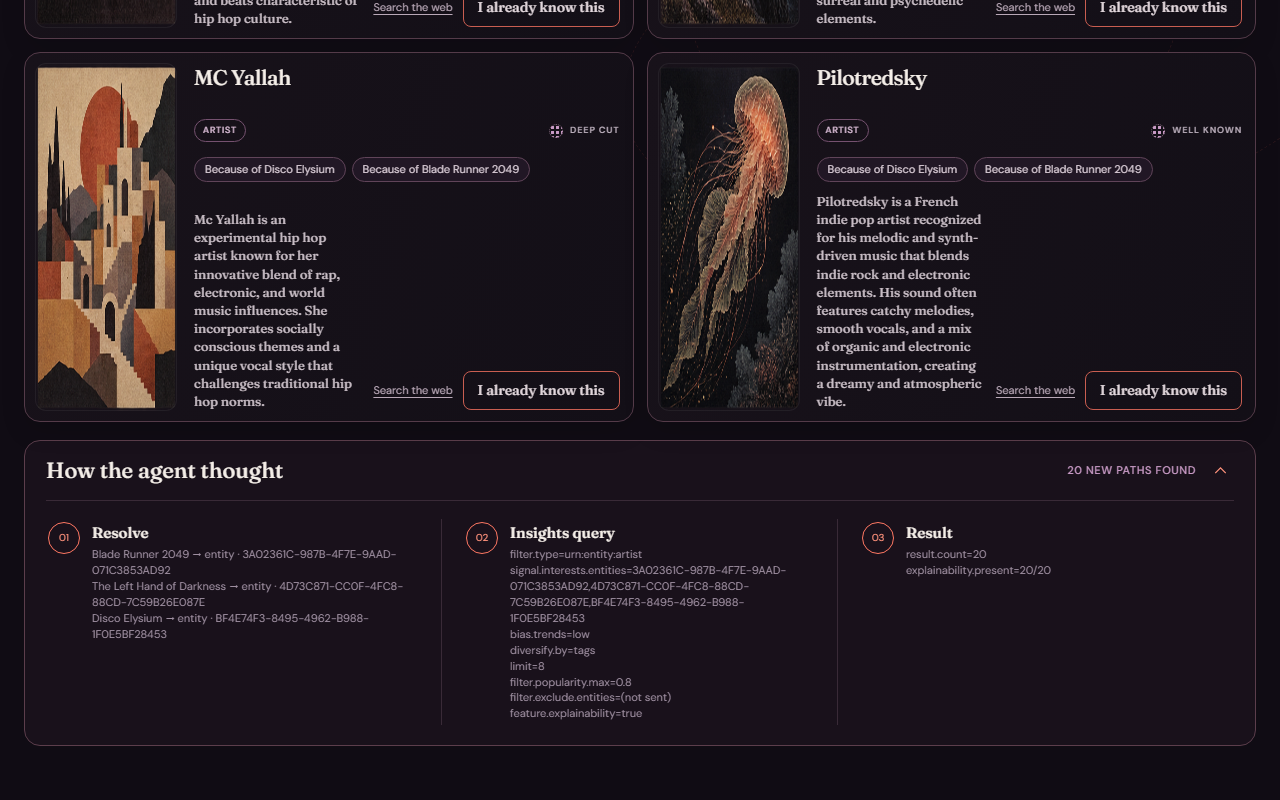
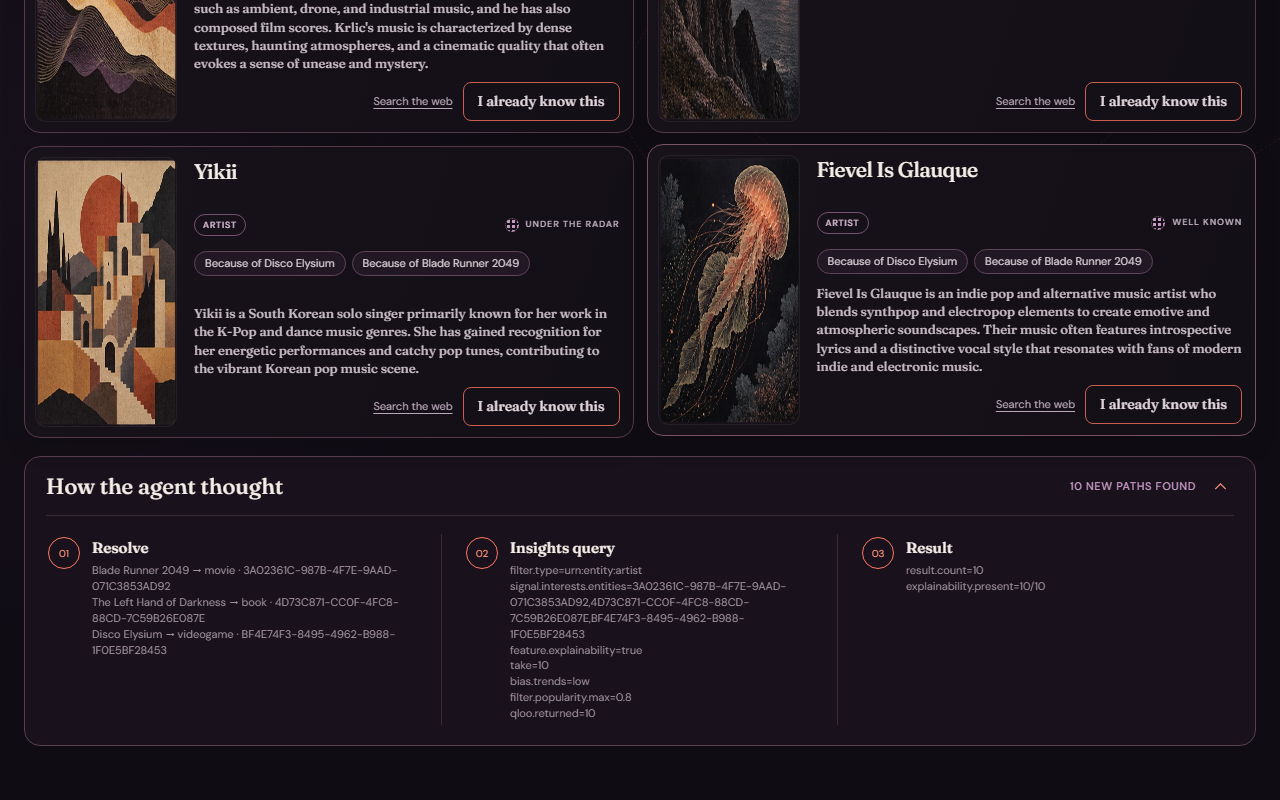
Live screenshots after take=10 fix; Devpost text in docs/DEVPOST.md
Claude-Session: https://claude.ai/code/session_015bfJDXbxR3fNRPEXQYJQCV

diff --git a/docs/DEVPOST.md b/docs/DEVPOST.md
@@ -1,0 +1,110 @@
+# Devpost submission draft: Out of the Bubble
+
+> Status: final text, 2026-10-27. All numbers below come from calls to the live site's own `/api/discover` (real Qloo key, mode `http`) made on 2026-10-27.
+
+## Project name
+Out of the Bubble
+
+## Tagline (≤60 chars)
+Your films, books and games pick your next obsession.
+
+<!-- 53 chars. Alternate: "Let your favorite film choose your next band." (45) -->
+
+## Inspiration
+
+Recommendation feeds are very good at giving me more of what I already have. People keep saying the same thing in public:
+
+> "my Spotify recommendation algorithm complaint is about the exact opposite, that it’s too conservative in what it suggests. Sometimes I feel stuck in a musical “echo chamber.”"
+> (Hacker News, September 2026: https://news.ycombinator.com/item?id=49797896)
+
+> "Recommendations have gotten noticeably worse since the glory days of Discover Weekly."
+> (Hacker News, August 2026: https://news.ycombinator.com/item?id=49173215)
+
+> "I often open Spotify or YouTube intending to find something unfamiliar, but recommendations lead me back to the same artists, genres, and moods."
+> (r/indieheads, June 2026: https://reddit.com/r/indieheads/comments/1ubrp0p/)
+
+Most recommenders only look inside one category. If you only listen to music, a music recommender only has your music history to work with, so it hands you the nearest neighbor. But taste doesn't stop at a category boundary. The person who loves *Blade Runner 2049*, *The Left Hand of Darkness* and *Disco Elysium* has a recognizable sensibility, and that sensibility has a soundtrack they've never heard. I wanted an agent that uses everything you love to send you somewhere new, and then tells you why it went there.
+
+## What it does
+
+You give it 3 to 5 things you love, from any category: a film, a book, a game, a brand, a place. You pick what you want to discover next (artists, books, podcasts, movies, TV shows, video games, or places in a city) and how far from your comfort zone to go:
+
+- **Next door**: close, well-known neighbors of your taste
+- **Across town**: less obvious and more varied
+- **Out of the bubble**: low-popularity, low-trend results you're unlikely to have met
+
+The agent returns 10 ranked cards. Each card shows the recommendation, its category, and **"Because of …" chips naming which of your inputs pulled it in**, so you can see the bridge (for example, a musician reached through your book and your game rather than through any music you listed).
+
+If you already know one, press **"I already know this."** The agent excludes it, along with everything currently on screen, and refills that slot with a new result. The **"How the agent thought"** panel shows each step of the run: resolve, discover, explain, refill.
+
+**A real run** (live site, 2026-10-27). Input: *Blade Runner 2049*, *The Left Hand of Darkness*, *Disco Elysium*. Target: artists.
+
+| Distance | First results (Qloo order) | Mean popularity of the 10 results |
+|---|---|---|
+| Next door | Oneohtrix Point Never, Yves Tumor, Iglooghost, Against All Logic, Aphex Twin | 0.971 (range 0.882 to 0.999) |
+| Across town | Daniel Lopatin, Hiroshi Yoshimura, Lingua Ignota, Spellling, Mid-Air Thief | 0.901 (range 0.611 to 0.955) |
+| Out of the bubble | Rural Internet, HEXSYSTEM, Material Girl, Avenade, William Doyle | 0.715 (range 0.611 to 0.778) |
+
+"Next door" and "Out of the bubble" share **0 of 10** results; neighboring stops share 1 of 10. Every card carries a Qloo explainability chip such as "Because of Disco Elysium" and "Because of Blade Runner 2049" (explainability was present on 10 of 10 results at every distance). A film and a game reached 10 musicians, which is the cross-category jump the project is about.
+
+## How I built it
+
+- **Server:** Node.js 20 + TypeScript, Express. One process serves the API (`/api/resolve`, `/api/discover`, `/api/exclude`) and the compiled front end.
+- **Agent loop** (`server/src/agent.ts`): resolve → insights → explain → (on "I already know this") exclude + refill. Every step writes to an in-memory trace that the UI renders.
+- **Qloo integration** (`server/src/http-qloo-client.ts`), server-side only, `X-Api-Key` header, `https://hackathon.api.qloo.com`:
+  - `GET /search` resolves free-text names from any category into Qloo entity IDs.
+  - `GET /v2/insights` with `filter.type=urn:entity:<target>` and `signal.interests.entities=<the resolved IDs>`: the user's cross-category taste becomes the signal for a different target category.
+  - The discovery-distance slider is translated into Qloo controls: `bias.trends` (high/low) and `filter.popularity.min/max`.
+  - `take=10` sets the page size.
+  - `feature.explainability=true` supplies the "Because of …" sources on each card.
+  - `filter.exclude.entities` powers the "I already know this" refill. The request is stateless: the browser sends the known ID plus the IDs already on screen.
+  - `filter.location.query` scopes place discovery to a city.
+- **LLM (optional):** an OpenAI Responses API call can add a one-line hook per card. It never selects, ranks or explains anything. It is switched off on the live demo, so every card shows Qloo's own description and explainability only.
+- **Front end:** a single static HTML page with a small amount of vanilla TypeScript bundled by esbuild. No framework, no canvas. Two-column card grid on desktop, one column on phones; motion respects `prefers-reduced-motion`.
+- **Testing:** Vitest suite running against a deterministic mock Qloo client with hand-written fictional fixtures (no real Qloo data is stored in the repo). 25 tests in 2 files pass (`npm test`).
+- **Hosting:** Docker on Render (free tier), with a `render.yaml` blueprint. Because the free tier sleeps, the page detects slow cold starts, polls `/api/health`, and offers a retry instead of hanging.
+
+## Why Qloo is load-bearing
+
+Remove Qloo and nothing is left to recommend. The app has no catalog, no ratings, and no co-occurrence data of its own. Qloo does every step that matters: it turns "a film, a book and a game" into entities in one shared taste graph (`/search`), it turns those entities into a ranked set of artists, books, podcasts or places (`/v2/insights` with `signal.interests.entities`), it supplies the "because of" evidence (`feature.explainability`), it implements the comfort-zone slider (`bias.trends` and popularity filters), and it runs the refill loop (`filter.exclude.entities`). An LLM on its own could name "artists for fans of Blade Runner," but it can't show measured cross-category affinity or which of your inputs produced a result, and it would drift back toward the famous names this project exists to avoid. The optional LLM only writes a one-line hook over results Qloo already chose.
+
+In the live run above, the three distance settings return three nearly disjoint sets of 10 artists from the same three inputs (1 shared artist between neighboring stops, 0 between the two ends), and the mean popularity of the result set drops from 0.971 to 0.715. Those are Qloo's popularity and trend signals doing the work, not prompt wording. (I did not run a head-to-head against a plain LLM, so I make no claim about what one would suggest.)
+
+## Challenges I ran into
+
+- **Building before the API key arrived.** Hackathon keys are issued by hand. I designed one `QlooClient` interface with two implementations, a mock client backed by clearly fictional fixtures and an HTTP client for the real API, so the full product (UI, agent loop, refill, trace, deploy) could be built and tested while I waited.
+- **Making "distance from your comfort zone" concrete.** A slider means nothing unless it maps to real parameters. I mapped each of the three stops to a specific combination of trend bias and popularity bounds. On the live API the three stops do produce different sets: `bias.trends=high` + `filter.popularity.min=0.24` for Next door; `bias.trends=low` + popularity between 0.08 and 0.96 for Across town; `bias.trends=low` + `filter.popularity.max=0.8` for Out of the bubble. Result-set overlap is 0 of 10 between the two ends.
+- **Refill without sessions.** To keep the server stateless, every refill request carries the IDs already on screen, so the agent can exclude them all and return exactly one new card.
+- **Cold starts on a free host.** The first request after idle can take 50+ seconds. Rather than show a frozen page, the UI shows a wake-up notice, polls health, and offers a retry after a client timeout.
+- **Real responses differed from my assumptions.** Explainability was present on 10/10 results at every distance. But (1) `/v2/insights` silently ignored the `limit=8` I first sent and returned its default page of 20; the API pages with `take`, which is what the client sends now; (2) `/search` returns fuzzy hits even for nonsense, so taking the first hit turned made-up names into unrelated entities; (3) across all three distances, the "Because of" chips only ever named *Blade Runner 2049* and *Disco Elysium*: *The Left Hand of Darkness* (a book) resolves to the right entity but never appeared as a source in 30 results, so Qloo's explanation for the music rests on the film and the game; (4) an artist can be a collaboration entity (for example "Ape Escape,Soichi Terada").
+
+## Accomplishments that I'm proud of
+
+- Each card says **why** it's there, in terms of the user's own inputs. Explanation isn't an afterthought.
+- The comfort-zone slider is a real control backed by Qloo parameters, not a decorative label.
+- The "I already know this" loop. Telling the agent what you already know immediately produces something new.
+- The full product was built and tested before the key arrived, then switched to the real API by setting one environment variable. The live site answered `/api/discover` in 3.1 to 3.4 s in three warm calls.
+- The Qloo key stays server-side, no personal data is sent (only entity names and IDs), and no Qloo responses are committed.
+
+## What I learned
+
+- Cross-category signals are the interesting part. A recommendation for music reached through a book says something a music-only recommender can't.
+- Explainability changes how a recommendation feels. "Because of *Disco Elysium*" makes an unfamiliar name worth a click.
+- Designing the client interface first, and keeping fixtures clearly fake, kept the project honest and testable before real data existed.
+- Real explainability data is short and plain: one or two source entity names per card, no score. That is why the chips read "Because of Disco Elysium" and not a percentage. It also showed that "your three inputs" are not equally influential: Qloo credited two of the three.
+- Verify every API parameter against what comes back. Qloo silently ignored `limit` and returned 20 results; only counting the cards exposed it, and the fix was `take=10`. In the same pass I stopped trusting `/search`'s first hit: the resolver now picks the hit whose name best matches the input and marks the input unresolved when nothing is close (so "Zzyzx Nonexistent Book" is reported as not found instead of becoming an unrelated entity).
+
+## What's next
+
+- Show the actual explainability strength per source (a small bar per "because of" chip) instead of just names.
+- Let users list things they already know up front (seed `filter.exclude.entities`) instead of only rejecting cards one at a time.
+- Disambiguation when a name matches several Qloo entities (e.g. a book vs. its film adaptation).
+- "Open in…" links on each card (streaming / bookstore / map) so a discovery is one click from being tried.
+- A shareable link for a constellation, so friends can see where your taste leads.
+
+## Built with
+`typescript` `node.js` `express` `qloo` `qloo-insights-api` `esbuild` `vitest` `html5` `css3` `docker` `render` `openai` (optional hook)
+
+## Try it out
+- Live demo: https://outofbubble.onrender.com (free Render tier: the first request after idle can take about a minute; the page shows a wake-up notice)
+- Source: https://github.com/run58669-maker/outofbubble (MIT)
